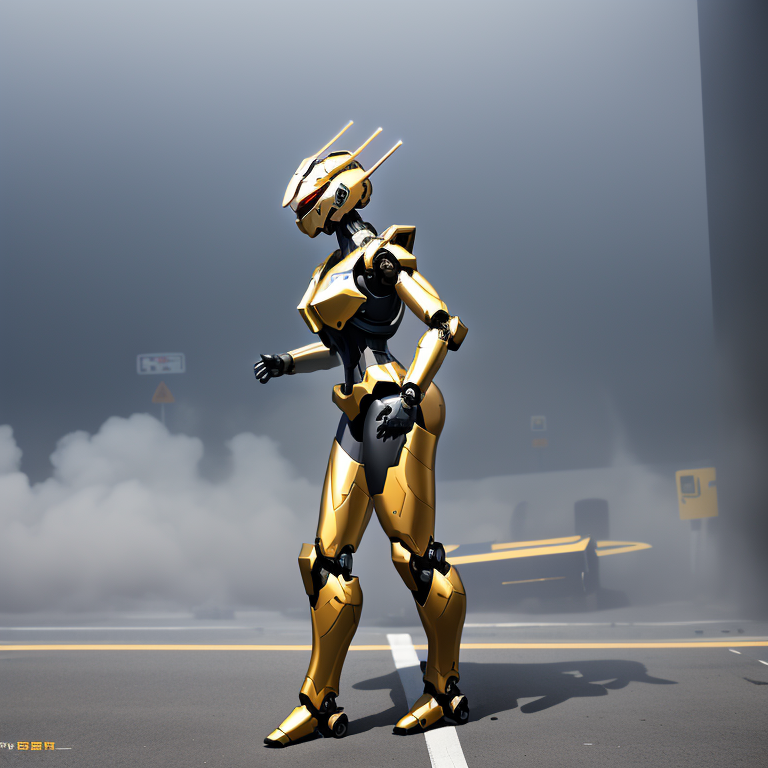
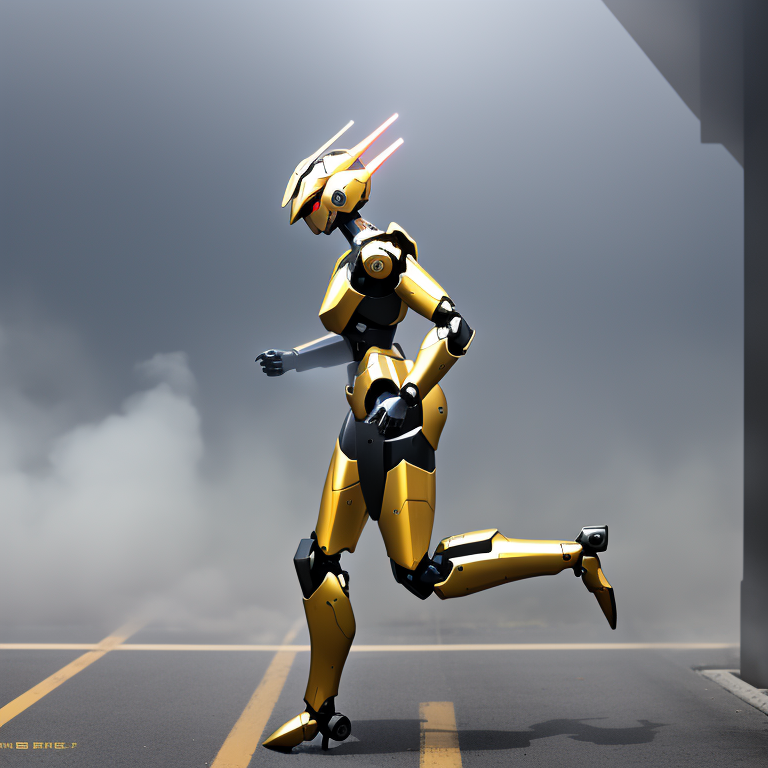
flf2v pipelines

diff --git a/wanpipeline.py b/wanpipeline.py
@@ -23,6 +23,41 @@ F.scaled_dot_product_attention = _patched_sdpa
 
 from diffusers.loaders.lora_conversion_utils import _convert_non_diffusers_wan_lora_to_diffusers
 
+import os, glob
+
+def get_first_and_last_frame(folder_path):
+    frames = sorted(glob.glob(os.path.join(folder_path, "*.png")))
+    if not frames:
+        raise FileNotFoundError
+    return load_image(Image.open(frames[0])).convert("RGB"), load_image(Image.open(frames[-1])).convert("RGB")
+
+import os, glob, re
+
+def get_last_frame_number(folder_path):
+    frames = sorted(glob.glob(os.path.join(folder_path, "*.png")))
+    if not frames:
+        raise FileNotFoundError
+    return int(re.search(r'\d+', os.path.basename(frames[-1])).group())
+
+def to_pil(im):
+    if isinstance(im, Image.Image):
+        return im.convert("RGB")
+    if isinstance(im, np.ndarray):
+        arr = im
+        if arr.dtype != np.uint8:
+            mn = float(arr.min())
+            mx = float(arr.max())
+            if mx <= 1.0 and mn >= 0.0:
+                arr = (arr * 255.0).round().astype(np.uint8)
+            else:
+                arr = np.clip(arr, 0, 255).astype(np.uint8)
+        if arr.ndim == 3 and arr.shape[2] == 3:
+            return Image.fromarray(arr, "RGB")
+        if arr.ndim == 3 and arr.shape[2] == 4:
+            return Image.fromarray(arr, "RGBA").convert("RGB")
+        if arr.ndim == 2:
+            return Image.fromarray(arr, "L").convert("RGB")
+    raise TypeError(f"Unsupported frame type {type(im)}")
 
 workspace_dir = "/workspace/hf_cache"
 os.environ["HF_HOME"] = "/workspace/hf_cache"
@@ -90,12 +125,13 @@ if hasattr(pipe, "transformer_2") and pipe.transformer_2 is not None:
 # pipe.scheduler.config["prediction_type"] = "epsilon"
 pipe.scheduler = UniPCMultistepScheduler.from_config(pipe.scheduler.config, flow_shift=8.0)
 
-img = load_image(Image.open("image.png")).convert("RGB")
+fimg, limg = get_first_and_last_frame("raw_frames/")
 
 print("Starting generation")
 frames = pipe(
-    image=img,
-    prompt="A 360 degrees view of the character running forward. Camera is moving fast and is able to capture full side view, full front view and full back view",
+    image=fimg,
+    last_image=limg,
+    prompt="A character running forward and making jump in the middle of video. Camera is moving fast and is able to capture full side view, full front view and full back view",
     negative_prompt="",
     num_inference_steps=4,
     guidance_scale=1.0,
@@ -104,28 +140,28 @@ frames = pipe(
     width=768,
 ).frames[0]
 
-export_to_video(frames, "output.mp4", fps=16)
+export_to_video(frames, "videos/output1.mp4", fps=16)
 
 out_dir = "raw_frames"
-def to_pil(im):
-    if isinstance(im, Image.Image):
-        return im.convert("RGB")
-    if isinstance(im, np.ndarray):
-        arr = im
-        if arr.dtype != np.uint8:
-            mn = float(arr.min())
-            mx = float(arr.max())
-            if mx <= 1.0 and mn >= 0.0:
-                arr = (arr * 255.0).round().astype(np.uint8)
-            else:
-                arr = np.clip(arr, 0, 255).astype(np.uint8)
-        if arr.ndim == 3 and arr.shape[2] == 3:
-            return Image.fromarray(arr, "RGB")
-        if arr.ndim == 3 and arr.shape[2] == 4:
-            return Image.fromarray(arr, "RGBA").convert("RGB")
-        if arr.ndim == 2:
-            return Image.fromarray(arr, "L").convert("RGB")
-    raise TypeError(f"Unsupported frame type {type(im)}")
+last_im_number = get_last_frame_number(out_dir)
 
 for i, im in enumerate(frames):
-    to_pil(im).save(os.path.join(out_dir, f"frame_{i:03d}.png"))
+    to_pil(im).save(os.path.join(out_dir, f"frame_{last_im_number + i:03d}.png"))
+
+print("Starting generation")
+frames = pipe(
+    image=fimg,
+    last_image=limg,
+    prompt="A character crouching forward slowly and silently. Camera is moving fast and is able to capture full side view, full front view and full back view",
+    negative_prompt="",
+    num_inference_steps=4,
+    guidance_scale=1.0,
+    num_frames=81,
+    height=768,
+    width=768,
+).frames[0]
+
+last_im_number = get_last_frame_number(out_dir)
+
+for i, im in enumerate(frames):
+    to_pil(im).save(os.path.join(out_dir, f"frame_{last_im_number + i:03d}.png"))
